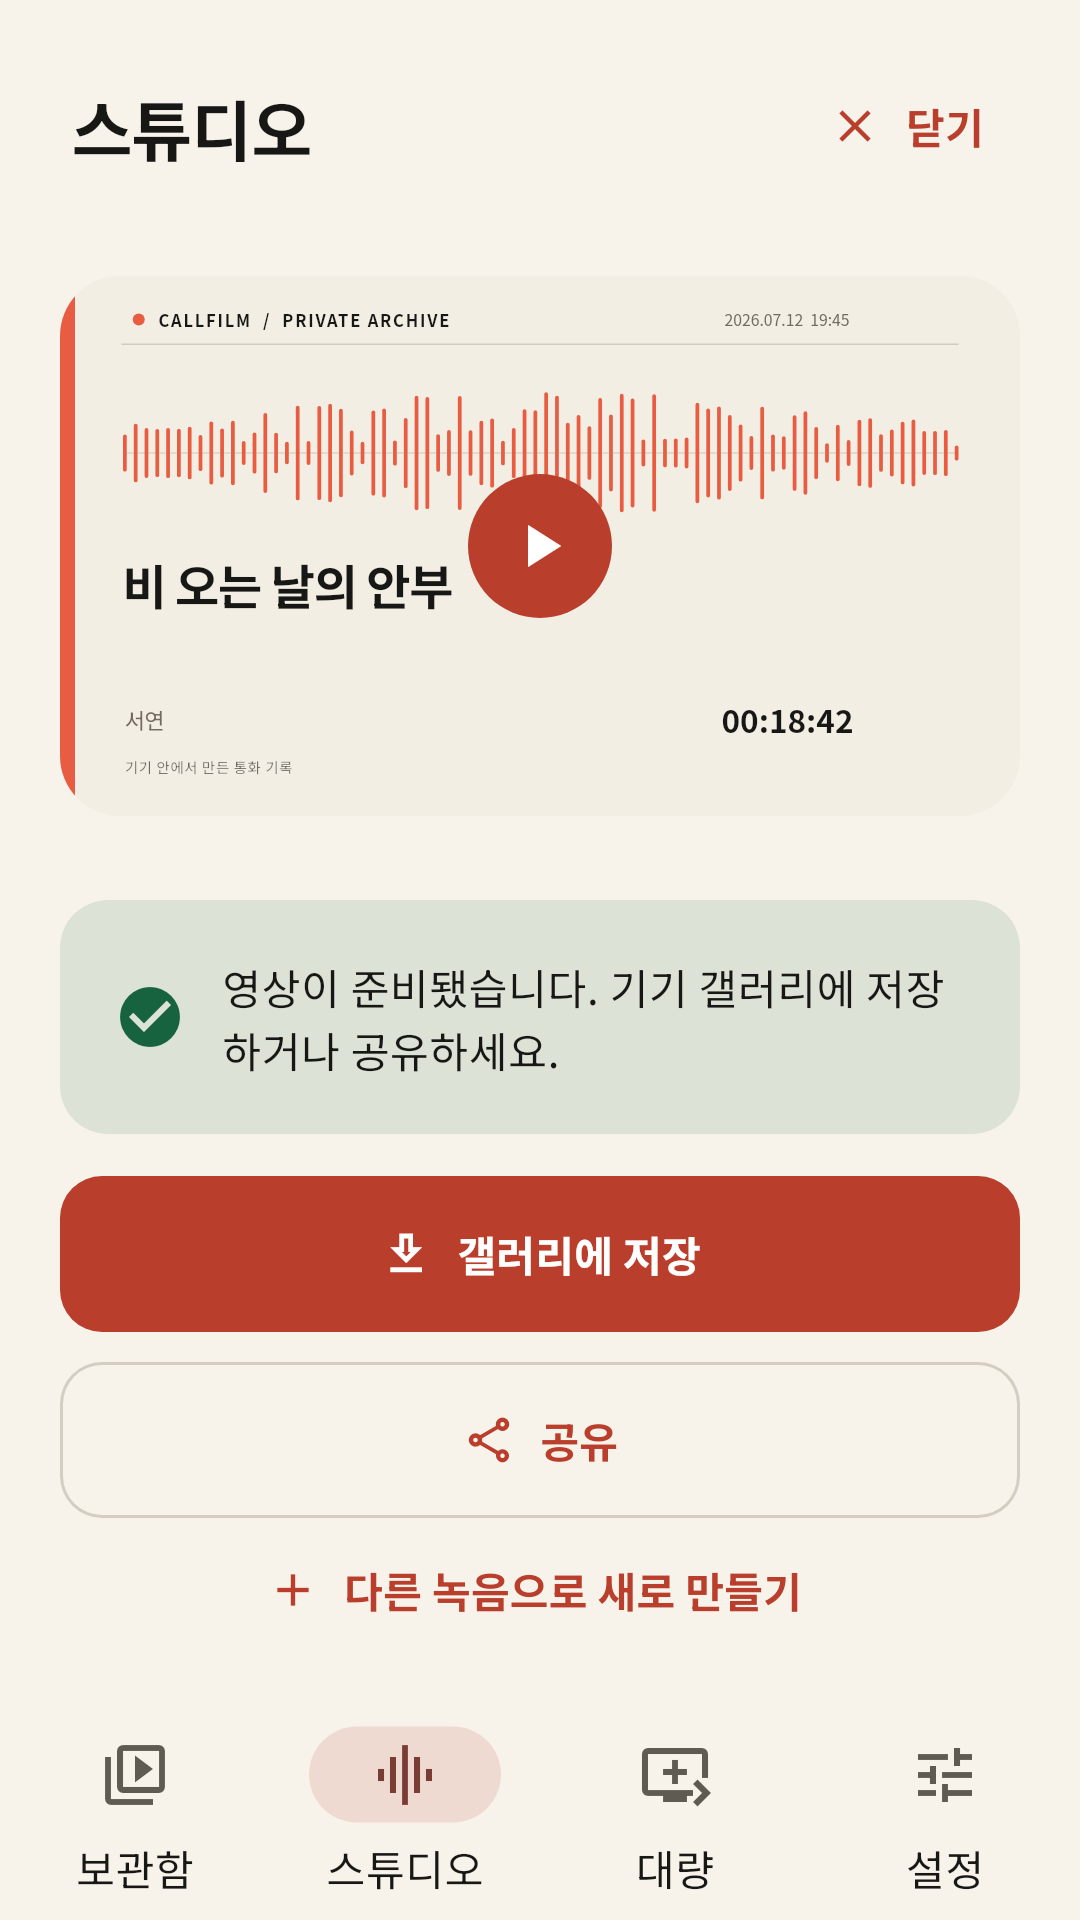
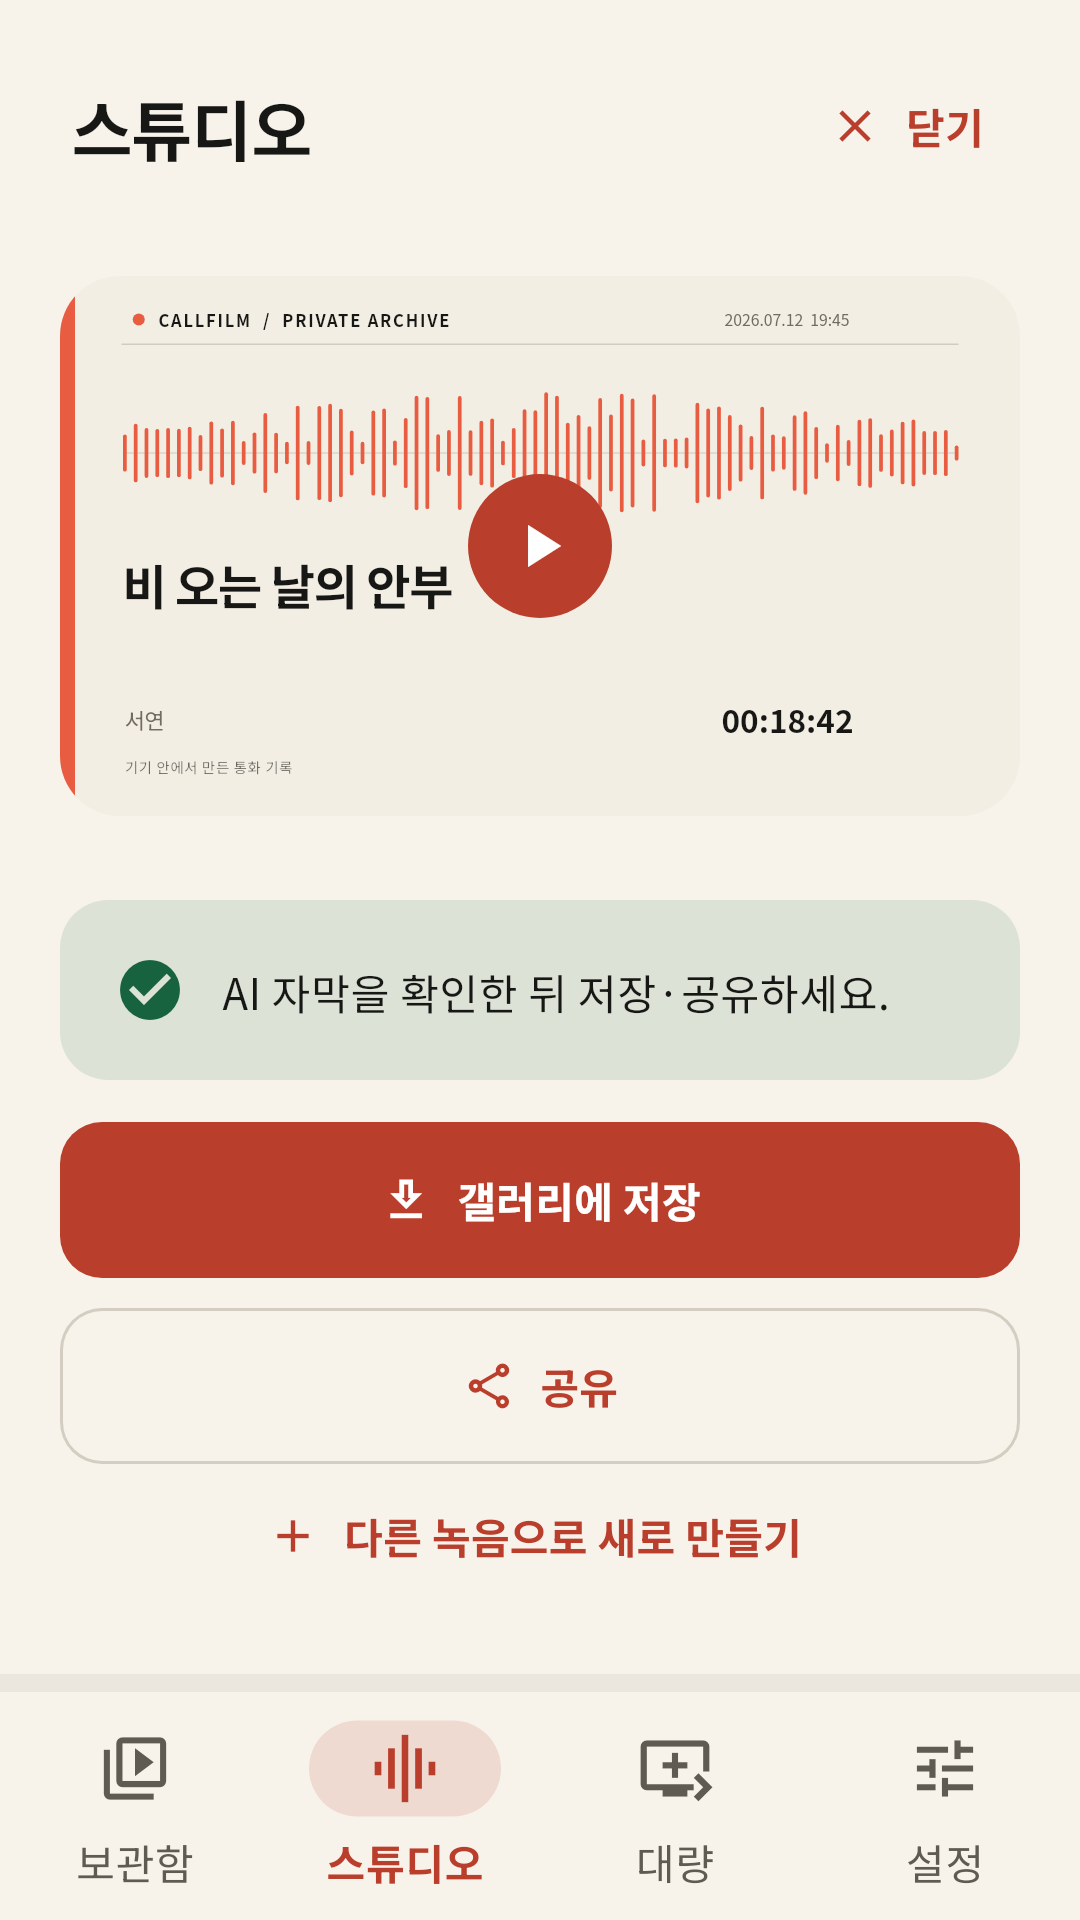
fix(site): sync caption review

diff --git a/site/index.html b/site/index.html
@@ -153,19 +153,19 @@
               </div>
             </div>
             <img
-              class="hero-phone hero-phone-preview"
-              src="./assets/phone-caption-preview.png"
+              class="hero-phone hero-phone-rendering"
+              src="./assets/phone-rendering.png"
               width="1080"
-              height="2280"
-              alt="통화필름 영상 표지에 자막 미리보기가 적용된 Pixel 4 화면"
+              height="1920"
+              alt="통화필름에서 AI 자막 생성 진행률과 취소 버튼을 보여주는 화면"
               fetchpriority="high"
             >
             <img
-              class="hero-phone hero-phone-model"
-              src="./assets/phone-ai-caption-model.png"
+              class="hero-phone hero-phone-editor"
+              src="./assets/phone-editor.png"
               width="1080"
-              height="2280"
-              alt="통화필름에서 기기 내 Base Q5 AI 자막 모델을 선택한 Pixel 4 화면"
+              height="1920"
+              alt="통화필름에서 기기 내 Base Q5 AI 자막과 인식 안내를 보여주는 화면"
               fetchpriority="high"
             >
           </div>
@@ -214,6 +214,8 @@
               포함된 음성 인식 AI가 통화 오디오를 기기 안에서 처리합니다.
               인식한 문장을 재생 시간에 맞추고, 재생기와 관계없이 보이도록
               자막을 MP4 영상에 직접 입힙니다.
+              AI 자막은 음질에 따라 다르게 인식될 수 있습니다. 완성 영상에서
+              내용을 확인해 주세요.
             </p>
             <div class="caption-badges">
               <span>기기 내 AI</span>
@@ -228,18 +230,18 @@
           <figure class="caption-card">
             <figcaption class="caption-card-copy">
               <span class="caption-step">01 · 음성 인식</span>
-              <h3>기기 안의 AI 모델을 고릅니다.</h3>
+              <h3>기기 안에서 AI 자막을 켭니다.</h3>
               <p>
                 기본 Base Q5 모델이 녹음을 외부로 보내지 않고 Android 기기 안에서
                 자막 문장과 시간을 만듭니다.
               </p>
             </figcaption>
-            <div class="caption-screen caption-screen-model">
+            <div class="caption-screen caption-screen-editor">
               <img
-                src="./assets/phone-ai-caption-model.png"
+                src="./assets/phone-editor.png"
                 width="1080"
-                height="2280"
-                alt="Pixel 4에서 이 기기 처리와 Base Q5 자막 생성 모델을 선택한 화면"
+                height="1920"
+                alt="이 기기 처리, Base Q5 모델과 AI 자막 인식 안내를 보여주는 화면"
                 loading="lazy"
               >
             </div>
@@ -250,16 +252,16 @@
               <span class="caption-step">02 · 영상 적용</span>
               <h3>시간에 맞춰 MP4에 직접 입힙니다.</h3>
               <p>
-                생성된 자막을 미리 확인하고, H.264·AAC 영상의 픽셀에 함께 렌더해
-                갤러리 저장과 공유까지 이어갑니다.
+                AI 자막 생성 진행률을 확인하고 H.264·AAC 영상의 픽셀에 함께
+                렌더합니다. 완성 영상에서 자막을 확인한 뒤 저장·공유합니다.
               </p>
             </figcaption>
-            <div class="caption-screen caption-screen-preview">
+            <div class="caption-screen caption-screen-rendering">
               <img
-                src="./assets/phone-caption-preview.png"
+                src="./assets/phone-rendering.png"
                 width="1080"
-                height="2280"
-                alt="Pixel 4에서 통화필름 표지 위에 자막 미리보기가 적용된 화면"
+                height="1920"
+                alt="AI 자막 생성 진행률과 작업 취소 버튼을 보여주는 화면"
                 loading="lazy"
               >
             </div>
@@ -290,7 +292,7 @@
       <div class="container">
         <div class="section-heading">
           <span class="eyebrow">핵심 기능</span>
-          <h2 id="features-title">자막부터 보관까지,<br>필요한 흐름만 남겼습니다.</h2>
+          <h2 id="features-title">자막부터 보관까지,<br>핵심만 담았습니다.</h2>
         </div>
 
         <div class="feature-grid">
@@ -370,7 +372,7 @@
         <div class="split-heading">
           <div>
             <span class="eyebrow">화면 구성</span>
-            <h2 id="screens-title">작게 고르고,<br>기기 안에서 완성합니다.</h2>
+            <h2 id="screens-title">필요한 것만 고르고,<br>기기 안에서 끝냅니다.</h2>
           </div>
           <p>
             보관함, 단건 편집, 렌더 진행과 완성 영상 확인을 같은 흐름 안에서 짧게 정리했습니다.

diff --git a/site/styles.css b/site/styles.css
@@ -507,14 +507,14 @@ a.button:hover {
   box-shadow: 0 28px 55px rgb(0 0 0 / 48%);
 }
 
-.hero-phone-preview {
+.hero-phone-rendering {
   z-index: 1;
   top: 26%;
   left: 12%;
   transform: rotate(-5deg);
 }
 
-.hero-phone-model {
+.hero-phone-editor {
   z-index: 2;
   top: 8%;
   right: 10%;
@@ -696,12 +696,12 @@ a.button:hover {
   object-fit: cover;
 }
 
-.caption-screen-model img {
+.caption-screen-editor img {
   object-position: center 40%;
 }
 
-.caption-screen-preview img {
-  object-position: center 8%;
+.caption-screen-rendering img {
+  object-position: center 43%;
 }
 
 .caption-pipeline {
@@ -875,7 +875,7 @@ a.button:hover {
 
 .screen-frame {
   overflow: hidden;
-  aspect-ratio: 9 / 13;
+  aspect-ratio: 9 / 16;
   background:
     radial-gradient(circle at 80% 4%, rgb(59 130 246 / 16%), transparent 35%),
     #101014;
@@ -1575,7 +1575,7 @@ footer {
   }
 
   .screen-frame {
-    aspect-ratio: 9 / 14;
+    aspect-ratio: 9 / 16;
   }
 
   .document-shell {
@@ -1672,12 +1672,12 @@ footer {
     border-radius: 18px;
   }
 
-  .hero-phone-preview {
+  .hero-phone-rendering {
     top: 27%;
     left: 3%;
   }
 
-  .hero-phone-model {
+  .hero-phone-editor {
     top: 10%;
     right: 2%;
   }

diff --git a/site/support/index.html b/site/support/index.html
@@ -198,6 +198,15 @@
             저장공간에 준비하므로 추가 저장공간과 시간이 필요합니다.
           </p>
         </div>
+
+        <div class="faq-item">
+          <h3>AI 자막을 저장하기 전에 무엇을 확인해야 하나요?</h3>
+          <p>
+            AI 자막은 음질에 따라 다르게 인식될 수 있습니다. 완성 화면의 재생
+            버튼으로 자막 내용을 확인한 뒤 저장하거나 공유해 주세요. 결과가
+            맞지 않으면 자막을 끄고 영상을 다시 만들 수 있습니다.
+          </p>
+        </div>
       </section>
 
       <section id="render" aria-labelledby="render-title">
